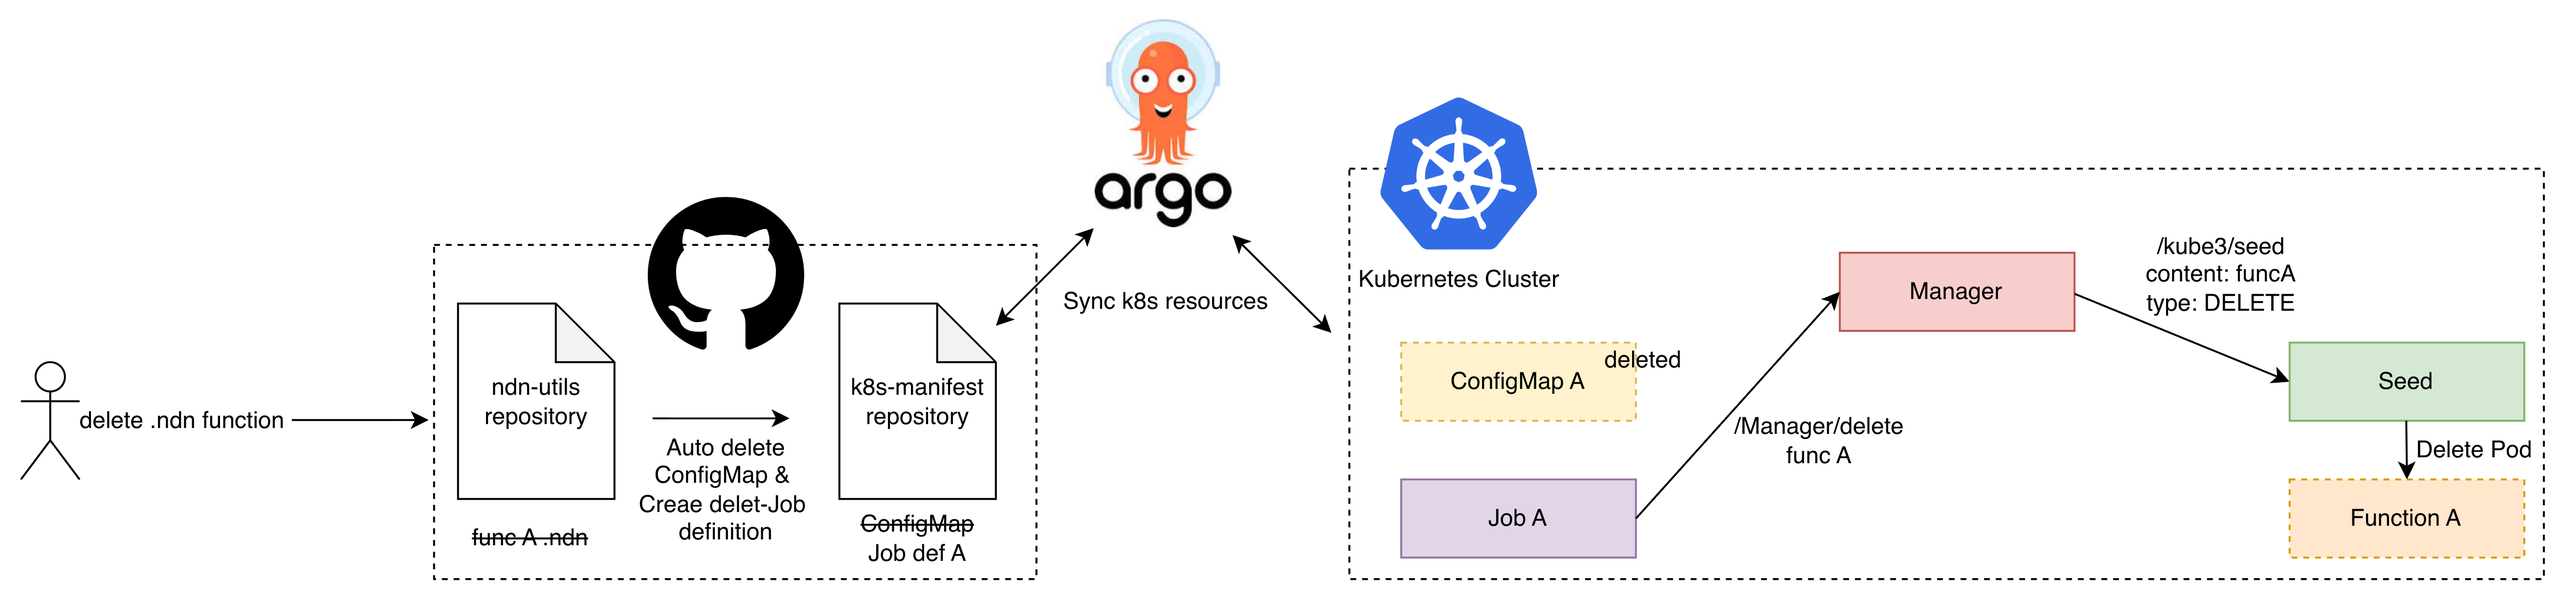
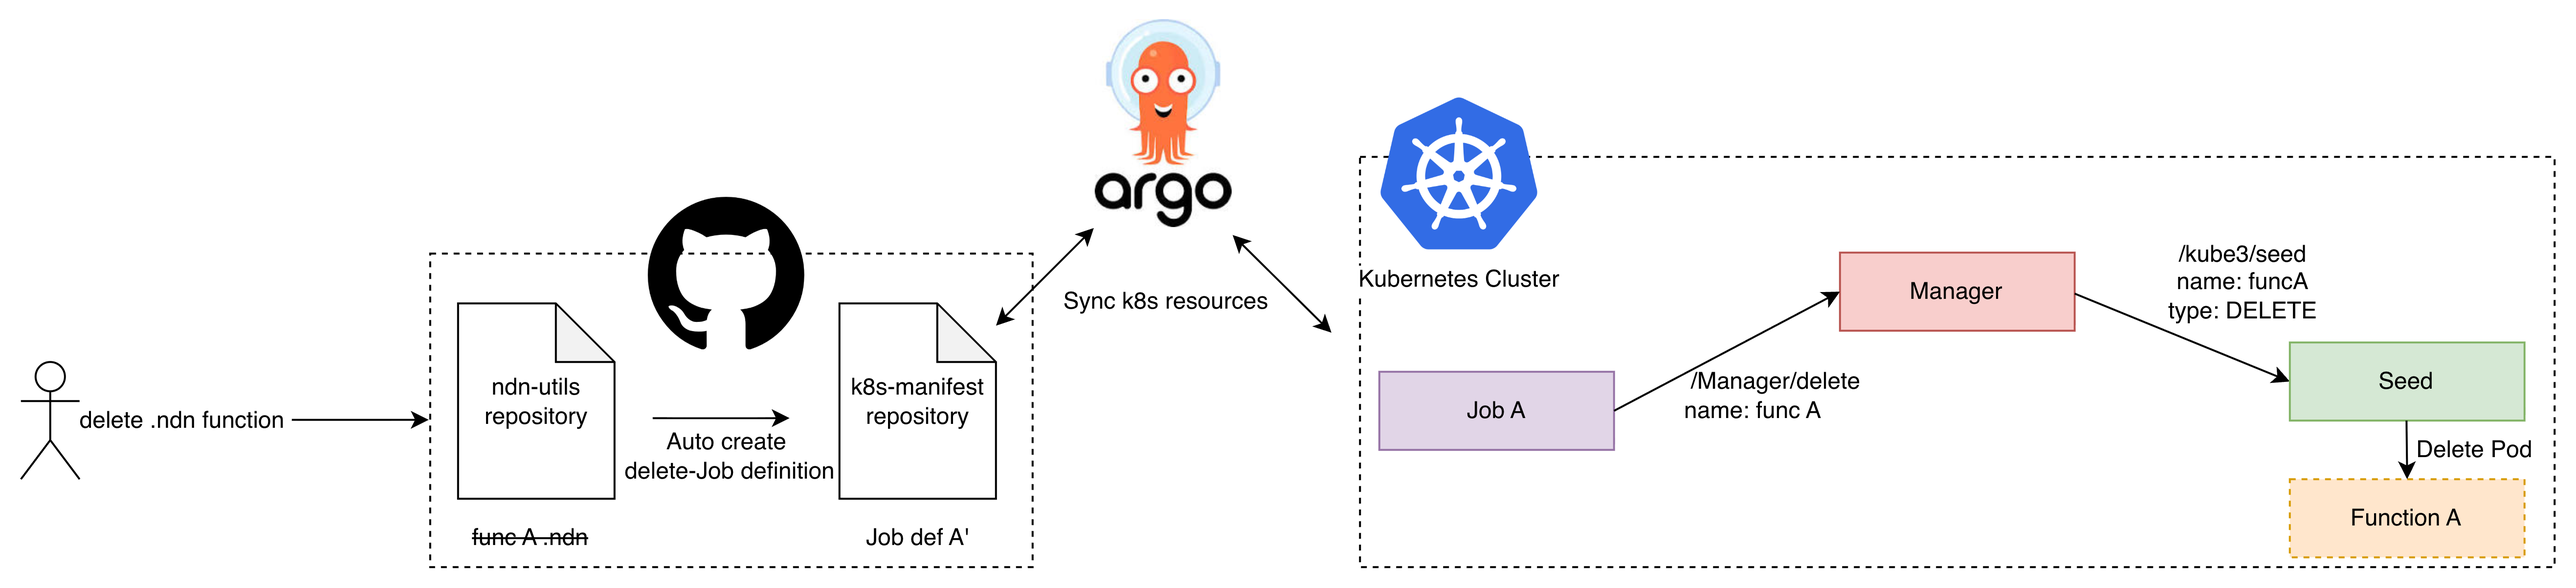
fix: directry handle func code instead of using configmap

diff --git a/.github/scripts/render_manifests.py b/.github/scripts/render_manifests.py
@@ -1,4 +1,4 @@
-"""Render script ConfigMaps and Jobs without accessing a cluster."""
+"""Render script Jobs without accessing a cluster."""
 import argparse
 import hashlib
 import yaml
@@ -19,9 +19,9 @@ ManifestDumper.add_representer(str, represent_string)
 
 
 def render(scripts, mode):
-    folder, variable, executable, wave = (
-        ('func', 'FUNCTION_NAME', 'register', '1') if mode == 'register'
-        else ('use-func', 'NDN_SCRIPT_PATH', 'invoke', '2')
+    folder, executable, wave = (
+        ('func', 'register', '1') if mode == 'register'
+        else ('use-func', 'invoke', '2')
     )
     image = 'registerer' if mode == 'register' else 'invoker'
     items = []
@@ -34,31 +34,34 @@ def render(scripts, mode):
         if not re.fullmatch(r'[A-Za-z0-9_.-]+', path.name):
             raise ValueError(f'Unsupported script filename: {path.name}')
         code = path.read_text(encoding='utf-8')
+        if not code.strip() or '\x00' in code:
+            raise ValueError(f'Script must be nonempty text without NUL characters: {path}')
         relative = path.relative_to(scripts).as_posix()
-        version = 'function-name-v1' if mode == 'register' else ''
+        version = 'inline-code-v1'
         digest = hashlib.sha256((version + relative + '\0' + code).encode()).hexdigest()[:12]
         slug = re.sub('[^a-z0-9-]', '-', path.stem.lower()).strip('-')[:25] or 'script'
         name = f'function-{mode}-{slug}-{digest}'
-        configmap_name = f'function-{path.stem}' if mode == 'register' else name
-        if mode == 'register' and (len(configmap_name) > 253 or not re.fullmatch(
-                r'[a-z0-9](?:[a-z0-9-]*[a-z0-9])?(?:\.[a-z0-9](?:[a-z0-9-]*[a-z0-9])?)*', configmap_name)):
-            raise ValueError(f'Function filename cannot form a ConfigMap name: {path.name}')
         metadata = {'name': name, 'namespace': 'ndn'}
-        items.append({'apiVersion': 'v1', 'kind': 'ConfigMap',
-                      'metadata': {'name': configmap_name, 'namespace': 'ndn',
-                                   'annotations': {'argocd.argoproj.io/sync-wave': '0'}},
-                      'data': {path.name: code}})
-        env = [{'name': variable, 'value': path.stem if mode == 'register' else '/scripts/' + path.name},
-               {'name': 'NFD_CONFIG_PATH', 'value': '/etc/ndn-config/ADDRESS'}]
+        env = [{'name': 'NFD_CONFIG_PATH', 'value': '/etc/ndn-config/ADDRESS'}]
+        # Kubernetes expands $(VAR) in env values; double dollars preserve code literally.
+        source_value = code.replace('$', '$$')
         if mode == 'register':
-            env.append({'name': 'MANAGER_REGISTER_NAME', 'value': '/Manager/register'})
+            env.extend([
+                {'name': 'FUNCTION_NAME', 'value': path.stem},
+                {'name': 'FUNCTION_CODE', 'value': source_value},
+                {'name': 'MANAGER_REGISTER_NAME', 'value': '/Manager/register'},
+            ])
+        else:
+            env.extend([
+                {'name': 'NDN_SCRIPT_NAME', 'value': path.name},
+                {'name': 'NDN_SCRIPT_SOURCE', 'value': source_value},
+            ])
         container = {
             'name': image,
             'image': f'ghcr.io/nakazato-lab/function-utils/ndn-function-{image}:latest',
             'imagePullPolicy': 'Always',
             'command': ['python', '-u', f'/app/{executable}.py'], 'env': env,
             'volumeMounts': [
-                {'name': 'script', 'mountPath': '/scripts', 'readOnly': True},
                 {'name': 'nfd-endpoint', 'mountPath': '/etc/ndn-config', 'readOnly': True}],
         }
         items.append({'apiVersion': 'batch/v1', 'kind': 'Job',
@@ -67,15 +70,17 @@ def render(scripts, mode):
                                'template': {'metadata': {'labels': {'app': f'function-{mode}'}},
                                             'spec': {'restartPolicy': 'Never', 'containers': [container],
                                                      'volumes': [
-                                                         {'name': 'script', 'configMap': {'name': configmap_name}},
                                                          {'name': 'nfd-endpoint', 'configMap': {'name': 'nfd-config'}}]}}}})
     return items
 
 
 def deletion_jobs(previous, current):
     """Keep DELETE Jobs until re-registration so Argo self-heal does not repeat them."""
-    current_names = {key for item in current if item.get('kind') == 'ConfigMap'
-                     for key in item.get('data', {})}
+    current_names = {
+        env['value'] for item in current if item.get('kind') == 'Job'
+        for env in item['spec']['template']['spec']['containers'][0]['env']
+        if env['name'] == 'FUNCTION_NAME'
+    }
     result = []
     for job in previous:
         if not job or job.get('kind') != 'Job':
@@ -84,13 +89,13 @@ def deletion_jobs(previous, current):
         container = spec['containers'][0]
         env = {item['name']: item['value'] for item in container['env']}
         function_name = env['FUNCTION_NAME']
-        filename = function_name + '.ndn'
-        if filename in current_names:
+        if function_name in current_names:
             continue
         # The .ndn file associated with this Job is already confirmed to be absent from current.
         if env.get('FUNCTION_OPERATION') != 'DELETE':
             old_name = job['metadata']['name']
             job['metadata']['name'] = old_name.replace('function-register-', 'function-delete-', 1)
+            container['env'] = [item for item in container['env'] if item['name'] != 'FUNCTION_CODE']
             container['env'].append({'name': 'FUNCTION_OPERATION', 'value': 'DELETE'})
             job['spec']['activeDeadlineSeconds'] = 300
             # DELETE needs only the function name, not the old source ConfigMap.

diff --git a/invoker/invoke.py b/invoker/invoke.py
@@ -1,7 +1,8 @@
-"""Run a mounted-in-image .ndn client script through ndnc."""
+"""Run .ndn source provided by the Job through ndnc."""
 import asyncio
 import logging
 import os
+import tempfile
 from pathlib import Path
 
 from utils.nfd import wait_for_nfd
@@ -11,9 +12,19 @@ logging.basicConfig(level=logging.INFO, format='%(asctime)s %(levelname)s %(mess
 
 
 async def main():
-    script_path = Path(os.environ['NDN_SCRIPT_PATH'])
-    if not script_path.is_file():
-        raise FileNotFoundError(f'NDN script not found: {script_path}')
+    source = os.environ['NDN_SCRIPT_SOURCE']
+    script_name = os.environ['NDN_SCRIPT_NAME']
+    if not script_name.endswith('.ndn') or Path(script_name).name != script_name:
+        raise ValueError('NDN_SCRIPT_NAME must be an .ndn filename')
+    if not source.strip() or '\x00' in source:
+        raise ValueError('NDN_SCRIPT_SOURCE must be nonempty text without NUL characters')
+    with tempfile.TemporaryDirectory(prefix='ndn-invoke-') as directory:
+        script_path = Path(directory) / script_name
+        script_path.write_text(source, encoding='utf-8')
+        await run_script(script_path)
+
+
+async def run_script(script_path):
     host, port = await wait_for_nfd(os.environ['NFD_CONFIG_PATH'])
     environment = os.environ.copy()
     environment['NDN_CLIENT_TRANSPORT'] = f'tcp4://{host}:{port}'

diff --git a/registerer/register.py b/registerer/register.py
@@ -24,9 +24,14 @@ async def main():
     if operation not in ('CREATE', 'DELETE'):
         raise ValueError('FUNCTION_OPERATION must be CREATE or DELETE')
     request = {'name': function_name}
+    if operation == 'CREATE':
+        code = os.environ['FUNCTION_CODE']
+        if not code.strip() or '\x00' in code:
+            raise ValueError('FUNCTION_CODE must be nonempty text without NUL characters')
+        request['content'] = code
     host, port = await wait_for_nfd(os.environ['NFD_CONFIG_PATH'])
     app = NDNApp(face=TcpFace(host, port), keychain=KeychainDigest())
-    params = json.dumps(request).encode('utf-8')
+    params = json.dumps(request, ensure_ascii=False).encode('utf-8')
     register_name = (os.getenv('MANAGER_DELETE_NAME', '/Manager/delete')
                      if operation == 'DELETE' else
                      os.getenv('MANAGER_REGISTER_NAME', '/Manager/register'))
